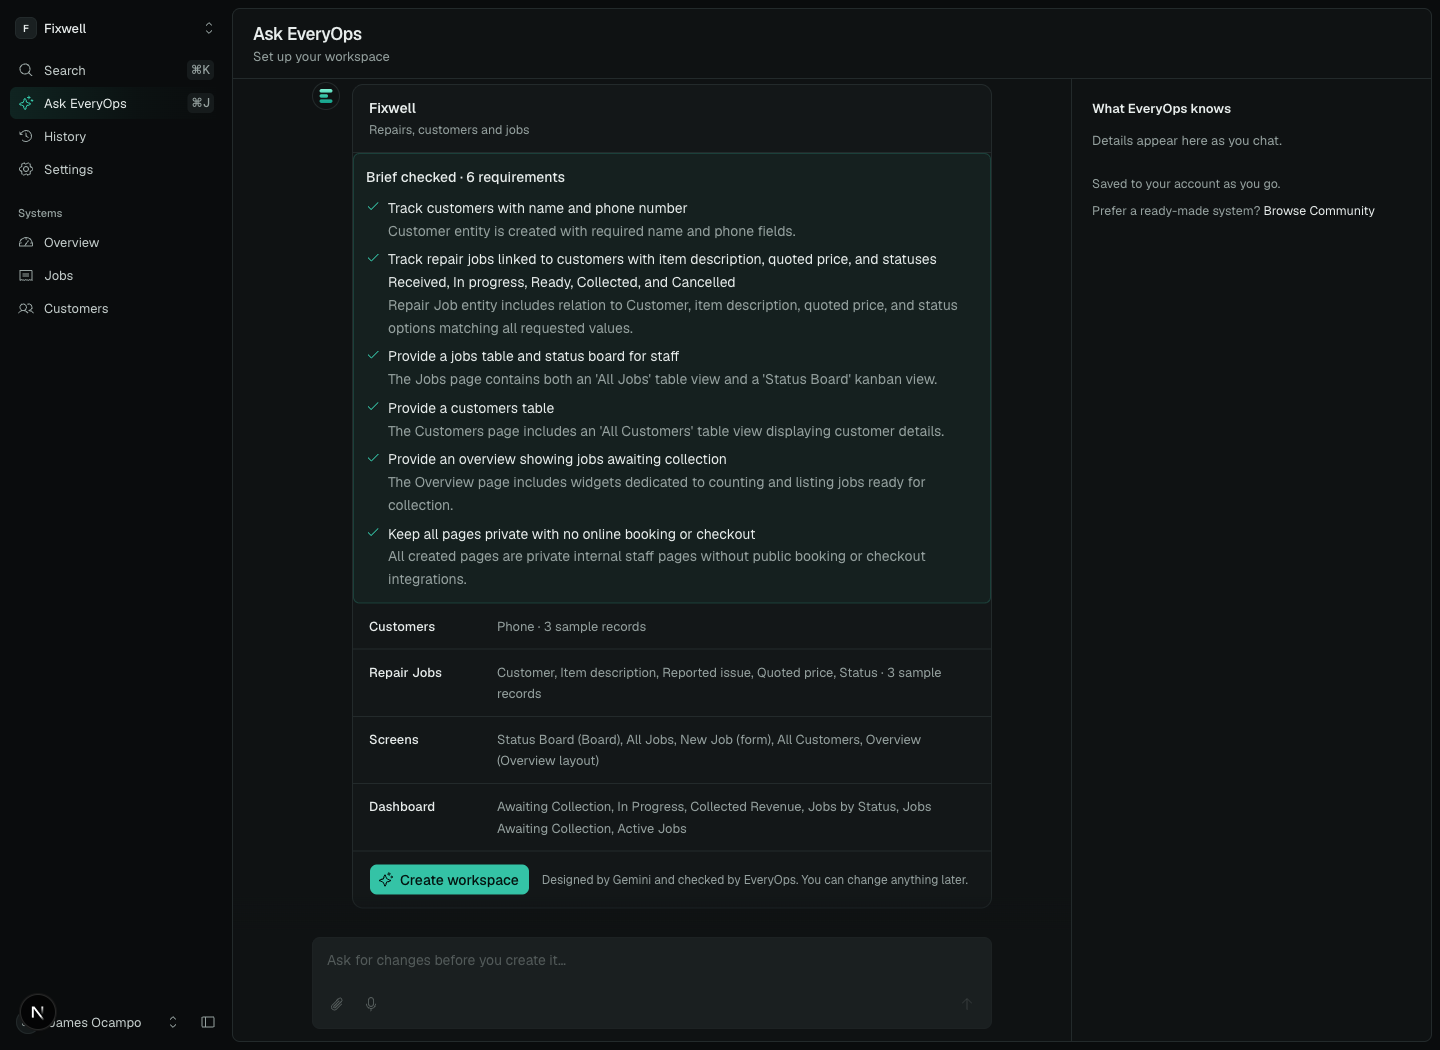
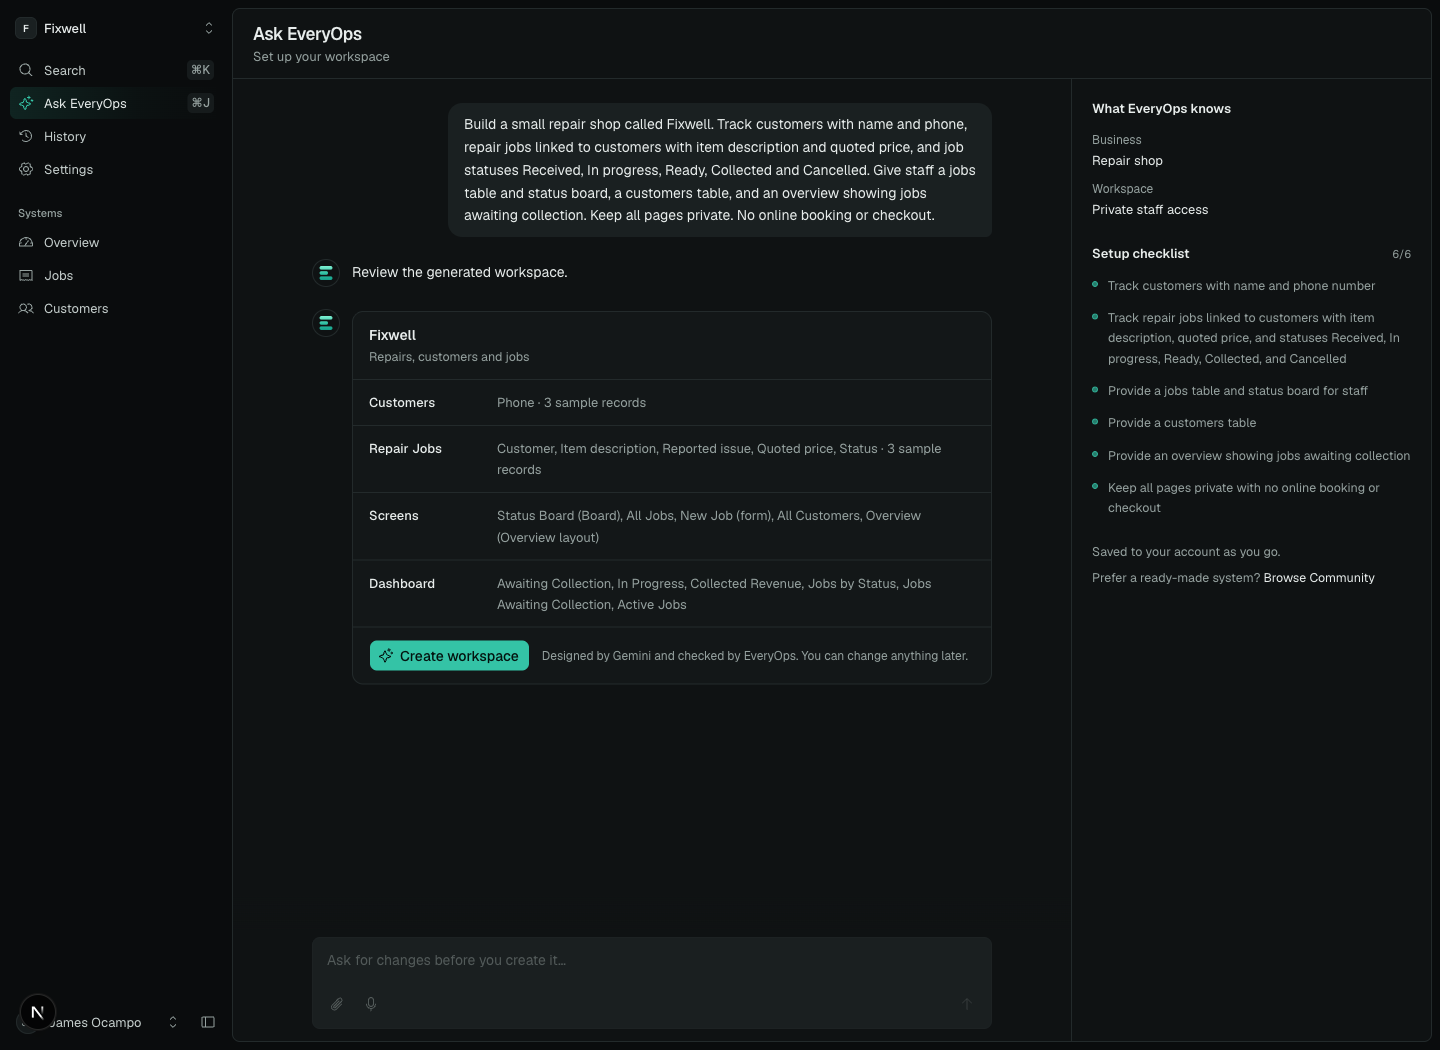
refactor(setup): move brief checklist into a subtle side panel

diff --git a/src/components/setup/setup-interview.tsx b/src/components/setup/setup-interview.tsx
@@ -4,13 +4,12 @@ import {
   ArrowClockwiseIcon,
   ArrowUpIcon,
   CheckCircleIcon,
-  CheckIcon,
   CircleDashedIcon,
   SparkleIcon,
 } from "@phosphor-icons/react";
 import Link from "next/link";
 import { useRouter } from "next/navigation";
-import { useCallback, useEffect, useRef, useState } from "react";
+import { useCallback, useEffect, useId, useRef, useState } from "react";
 import { AttachmentTray, ComposerTools, DropOverlay, MessageFiles } from "@/components/ai/composer-tools";
 import { useAttachments } from "@/components/ai/use-attachments";
 import { useVoiceInput } from "@/components/ai/use-voice-input";
@@ -25,6 +24,7 @@ import {
   InputGroupButton,
   InputGroupTextarea,
 } from "@/components/ui/input-group";
+import { Sheet, SheetContent, SheetHeader, SheetTitle, SheetTrigger } from "@/components/ui/sheet";
 import { useWorkspace } from "@/components/workspace/workspace-context";
 import { useFollowBottom } from "@/hooks/use-follow-bottom";
 import { typingMs } from "@/hooks/use-typewriter";
@@ -59,14 +59,15 @@ function QuestionList({
   /** Opens the question card on this question; absent while Ask EveryOps is working. */
   onPick?: (id: string) => void;
 }) {
+  const headingId = useId();
   const required = questions.filter((q) => q.required);
   const answered = required.filter((q) => q.answer.trim()).length;
   const open = questions.filter((q) => !q.answer.trim());
   const done = questions.filter((q) => q.answer.trim());
   return (
-    <section aria-labelledby="setup-questions">
+    <section aria-labelledby={headingId}>
       <div className="mb-3 flex items-baseline justify-between gap-3">
-        <h2 id="setup-questions" className="text-[13px] font-semibold">
+        <h2 id={headingId} className="text-[13px] font-semibold">
           Questions
         </h2>
         {required.length ? (
@@ -233,6 +234,7 @@ export function SetupInterview({
   const [questions, setQuestions] = useState<SetupQuestion[]>(progress?.questions ?? []);
   const [draft, setDraft] = useState<SetupDraft | undefined>(progress?.draft);
   const [phase, setPhase] = useState<Phase>("idle");
+  const [detailsOpen, setDetailsOpen] = useState(false);
   const [build, setBuild] = useState<DesignBuild | null>(null);
   const [live, setLive] = useState<LiveReply | null>(null);
   const [failure, setFailure] = useState<Failure | null>(null);
@@ -407,7 +409,10 @@ export function SetupInterview({
           },
         ]
       : turnAsk;
-  const openQuestion = (id: string) => setPicked({ id, turn: messages.length, nonce: Date.now() });
+  const openQuestion = (id: string) => {
+    setPicked({ id, turn: messages.length, nonce: Date.now() });
+    setDetailsOpen(false);
+  };
   // Closing a card opened from the side panel brings back this turn's questions as the collapsed chip.
   const [collapsedTurn, setCollapsedTurn] = useState(-1);
   const closePanelCard = () => {
@@ -415,9 +420,87 @@ export function SetupInterview({
     setCollapsedTurn(messages.length);
   };
 
+  const reviewed = !!draft?.coverage?.length && !busy && !failure;
+  const setupItems = draft?.coverage?.length ? draft.coverage.map((item) => item.request) : plan;
+  const setupDetails = (
+    <>
+      <section>
+        <h2 className="mb-3 text-[13px] font-semibold">What EveryOps knows</h2>
+        {profile.length ? (
+          <dl className="flex flex-col gap-2.5 text-[13px]">
+            {profile.map((line) => (
+              <div key={line.label} className="flex flex-col gap-0.5">
+                <dt className="text-[12px] text-muted-foreground">{line.label}</dt>
+                <dd>{line.value}</dd>
+              </div>
+            ))}
+          </dl>
+        ) : (
+          <p className="text-[13px] text-muted-foreground">Details appear here as you chat.</p>
+        )}
+      </section>
+      {questions.length ? (
+        <QuestionList questions={questions} onPick={!busy && !draft ? openQuestion : undefined} />
+      ) : null}
+      {setupItems.length ? (
+        <section aria-label="Setup checklist">
+          <div className="mb-3 flex items-baseline justify-between gap-3">
+            <h2 className="text-[13px] font-semibold">Setup checklist</h2>
+            <span className="text-[11px] tabular-nums text-muted-foreground">
+              {reviewed ? setupItems.length : 0}/{setupItems.length}
+            </span>
+          </div>
+          <ul className="space-y-3 text-[12.5px] leading-relaxed text-muted-foreground">
+            {setupItems.map((item) => (
+              <li key={item} className="flex items-start gap-2.5">
+                <span
+                  aria-hidden="true"
+                  className={cn(
+                    "mt-1.5 size-1.5 shrink-0 rounded-full border",
+                    reviewed
+                      ? "border-primary/60 bg-primary/60"
+                      : "border-muted-foreground/40 bg-transparent",
+                  )}
+                />
+                <span>
+                  <span className="sr-only">{reviewed ? "Checked: " : "Pending review: "}</span>
+                  {item}
+                </span>
+              </li>
+            ))}
+          </ul>
+        </section>
+      ) : null}
+      <section className="text-[12.5px] text-muted-foreground">
+        <p>Saved to your account as you go.</p>
+        <p className="mt-2">
+          Prefer a ready-made system?{" "}
+          <Link href="/community" className="text-foreground underline-offset-4 hover:underline">
+            Browse Community
+          </Link>
+        </p>
+      </section>
+    </>
+  );
+
   return (
     <div className="grid min-h-0 flex-1 grid-cols-1 lg:grid-cols-[1fr_360px]">
       <div className="flex min-h-0 flex-col">
+        <div className="flex justify-end border-b px-3 py-1 lg:hidden">
+          <Sheet open={detailsOpen} onOpenChange={setDetailsOpen}>
+            <SheetTrigger render={<Button size="sm" variant="ghost" className="text-muted-foreground" />}>
+              Setup details
+            </SheetTrigger>
+            <SheetContent side="right" className="w-[min(360px,calc(100vw-24px))]!">
+              <SheetHeader>
+                <SheetTitle className="text-[14px]">Your business</SheetTitle>
+              </SheetHeader>
+              <div className="flex min-h-0 flex-1 flex-col gap-6 overflow-y-auto px-5 pb-5">
+                {setupDetails}
+              </div>
+            </SheetContent>
+          </Sheet>
+        </div>
         <div ref={scroller} className="min-h-0 flex-1 overflow-y-auto px-5 py-6">
           <div className="mx-auto flex max-w-[680px] flex-col gap-5">
             {!messages.length && !busy ? (
@@ -474,24 +557,6 @@ export function SetupInterview({
                     <p className="text-[12.5px] text-muted-foreground">{draft.summary}</p>
                   </div>
                   <ul className="divide-y">
-                    {draft.coverage?.length ? (
-                      <li className="rounded-md border border-primary/20 bg-primary/5 p-3">
-                        <p className="mb-2 font-medium">
-                          Brief checked · {draft.coverage.length} requirements
-                        </p>
-                        <ul className="space-y-1.5">
-                          {draft.coverage.map((item) => (
-                            <li key={item.request} className="flex gap-2">
-                              <CheckIcon className="mt-0.5 size-3.5 shrink-0 text-primary" />
-                              <span>
-                                {item.request}
-                                <span className="block text-muted-foreground">{item.detail}</span>
-                              </span>
-                            </li>
-                          ))}
-                        </ul>
-                      </li>
-                    ) : null}
                     {draft.preview.map((item) => (
                       <li key={item.label} className="flex gap-4 px-4 py-3 text-[13px]">
                         <span className="w-28 shrink-0 font-medium">{item.label}</span>
@@ -644,46 +709,7 @@ export function SetupInterview({
         aria-label="Your business"
         className="hidden flex-col gap-6 overflow-y-auto border-l px-5 py-5 lg:flex"
       >
-        <section>
-          <h2 className="mb-3 text-[13px] font-semibold">What EveryOps knows</h2>
-          {profile.length ? (
-            <dl className="flex flex-col gap-2.5 text-[13px]">
-              {profile.map((line) => (
-                <div key={line.label} className="flex flex-col gap-0.5">
-                  <dt className="text-[12px] text-muted-foreground">{line.label}</dt>
-                  <dd>{line.value}</dd>
-                </div>
-              ))}
-            </dl>
-          ) : (
-            <p className="text-[13px] text-muted-foreground">Details appear here as you chat.</p>
-          )}
-        </section>
-        {questions.length ? (
-          <QuestionList questions={questions} onPick={!busy && !draft ? openQuestion : undefined} />
-        ) : null}
-        {plan.length ? (
-          <section>
-            <h2 className="mb-3 text-[13px] font-semibold">What EveryOps will set up</h2>
-            <ul className="flex flex-col gap-2 text-[13px]">
-              {plan.map((item) => (
-                <li key={item} className="flex gap-2">
-                  <CheckIcon className="mt-0.5 size-3.5 shrink-0 text-primary" />
-                  <span>{item}</span>
-                </li>
-              ))}
-            </ul>
-          </section>
-        ) : null}
-        <section className="text-[12.5px] text-muted-foreground">
-          <p>Saved to your account as you go.</p>
-          <p className="mt-2">
-            Prefer a ready-made system?{" "}
-            <Link href="/community" className="text-foreground underline-offset-4 hover:underline">
-              Browse Community
-            </Link>
-          </p>
-        </section>
+        {setupDetails}
       </aside>
     </div>
   );

diff --git a/docs/assistant-quality.md b/docs/assistant-quality.md
@@ -7,7 +7,7 @@ The assistant now shows the data it checked and reviews each requested change be
 - Scoped numbers require fresh tool evidence, including zero results. Lookup failures, successful empty results, and capped results have distinct states. A failed lookup gets one fresh attempt; an unresolved failure or incomplete result asks for clarification without generating a numerical answer or change plan.
 - Lookup context keeps complete JSON entries within its budget. Search, linked-record and grouped-aggregate caps are surfaced, rather than silently treated as complete data.
 - A separate, small structured review checks every explicit requirement against actual operations or existing configuration. Unknown evidence references are rejected. Explicitly preserved pages include their fields, tabs and widgets. Missing requirements return to the existing repair loop; ambiguity or an unavailable reviewer withholds the plan.
-- Setup repairs missing choice options with a focused schema, then uses the general patch path for missing screens and widgets. The resulting draft shows the reviewed requirements.
+- Setup repairs missing choice options with a focused schema, then uses the general patch path for missing screens and widgets. The right-side setup panel lists the requirements in neutral text: tiny filled bullets mean checked, hollow bullets mean pending. The conversation preview has no highlighted review box. On mobile, Setup details opens the same panel from the right.
 - Answers retain query filters, counts and the Manila check time across saved conversations. Plans retain their checklist. Mobile chat keeps these details readable.
 - Generated dashboard `view:` shortcuts resolve only through known views in the current workspace; unknown targets become text. The existing Markdown URL sanitizer remains in place.
 - The branch also includes the previously unmerged assistant improvements: proactive checks, memory suggestions, propagated renames, future-effective changes, persistent dismissed findings, and attribution for applied changes.
@@ -53,9 +53,16 @@ Setup screenshots use a real `/api/ai/design` result saved as a resumable local 
 | Applied names in the sidebar | [Applied](pr-screenshots/assistant-quality/04-applied.png) |
 | Original names restored | [Undone](pr-screenshots/assistant-quality/05-undone.png) |
 | Verified zero matches | [Empty result](pr-screenshots/assistant-quality/06-no-matching-records.png) |
-| Six explicit setup requirements | [Setup draft](pr-screenshots/assistant-quality/07-setup-brief-checked.png) |
+| Quiet checklist in the right-side panel | [Setup draft](pr-screenshots/assistant-quality/07-setup-brief-checked.png) |
 | Working generated collection dashboard | [Overview](pr-screenshots/assistant-quality/08-generated-overview.png) |
 | Shortcut opens the requested status board | [Status board](pr-screenshots/assistant-quality/09-generated-status-board.png) |
+
+Follow-up UI verification: desktop checked state (6/6), a seeded pending state (0/6 with hollow bullets), and the mobile right-side details panel. The pending fixture represents planned requirements before a draft exists; it is a UI-state test rather than another model-generation run. Typecheck, lint, 375 tests and production build passed after the layout change.
+
+| Additional setup proof | Screenshot |
+| --- | --- |
+| Pending requirements with transparent bullets | [Pending checklist](pr-screenshots/assistant-quality/10-setup-checklist-pending.png) |
+| Minimal mobile side panel | [Mobile setup details](pr-screenshots/assistant-quality/11-setup-checklist-mobile.png) |
 
 ## Limits and release notes
 
